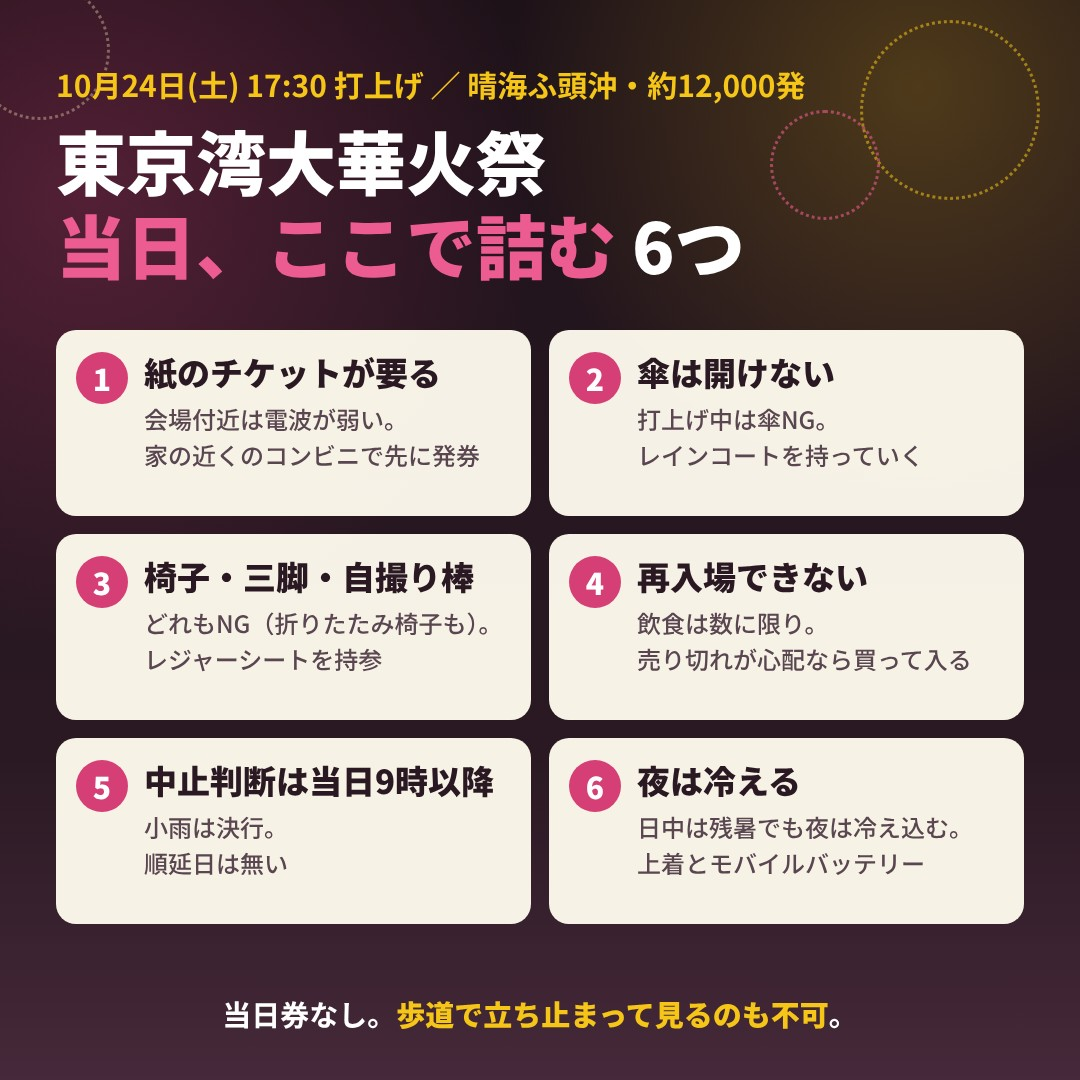
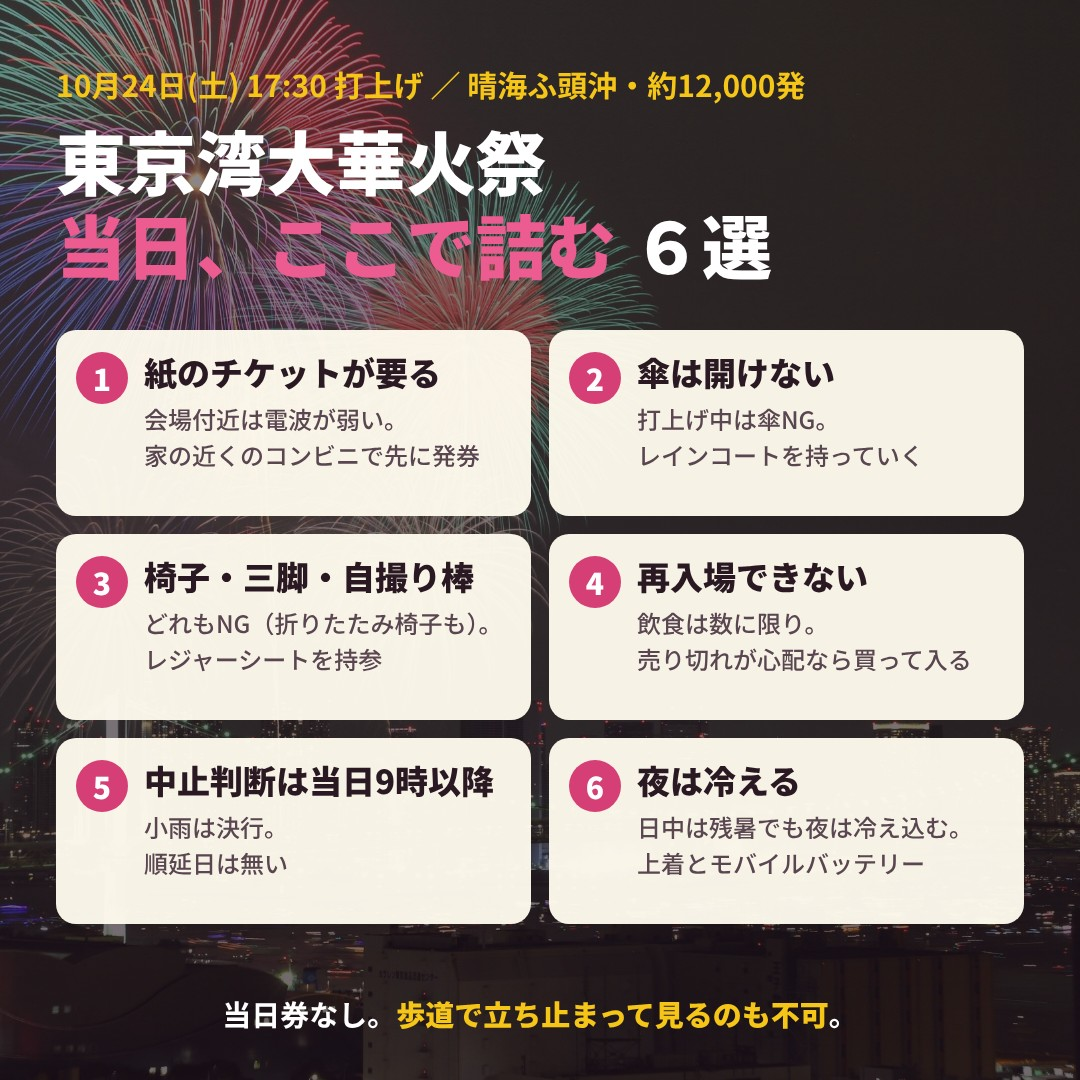
X: 花火の引用ポスト画像にコメント6件を反映（花火写真の背景・６選・飲み物/チケット/YouTubeの絵）
Claude-Session: https://claude.ai/code/session_01H2JQqdMCeKNiMVUTrAyX2t

diff --git a/.claude/skills/x-post-images/SKILL.md b/.claude/skills/x-post-images/SKILL.md
@@ -334,6 +334,7 @@ cat public/images/<slug>/photos/_manifest.json
 | 2026-10-17 | **このタブのところに薄くプライム感謝祭のキャンペーン画像を透過させて写して／楽天のお買い物マラソンも同じようにやってね／実施してスキル化してね** | **イベント同士を比べるカードは、ロゴの札（タブ）の地に、そのイベントの公式キャンペーン画像を薄く敷く**（既定にする）。取り方：公式ページの `og:image`・大きい `img`・CSS の背景画像を **URL から取る**（x312・x313。**画面は撮らない**）。Amazon は aboutamazon の告知画像、楽天は「お買い物マラソン」の看板画像（`r.r10s.jp/evt/.../kanban/`）。**敷くのはカード全体の上部**（いったん札の中だけに入れたが、利用者が「最初のコンポーネント全体に透過させた方が確かにいい」と決めた・2026-10-17）。カードの上 300px に `opacity:.3` 前後、下へ向けて `mask-image` で消す。白地の画像（楽天の看板）は `mix-blend-mode:multiply` で白を消して赤い地に透かす。置き場は `public/images/<slug>/x/src/` と `_manifest.json`（取得元 URL・取得日） |
 | 2026-10-17 | **透かしている画像の白い背景が目立ちすぎる。文字とイラスト以外を透明にするか、もっと薄く**（楽天の看板） | 白地の素材をそのまま敷くと、色のカードの上に**白い帯**が出る。**ファイルは加工せず、CSS の `mix-blend-mode: multiply` で白だけを消す**（白×地色＝地色）。文字とイラストだけが地色に沈んで残る。白地の公式素材を色の地に敷くときは既定でこれを付ける |
 | 2026-10-18 | **フォロワー500人のお礼（A 版）に 6 件：全体を GIF に・紙吹雪を動かす・セリフと「500人突破」にエフェクト／「突破」の札は斜めにしない／500人の文字を大きく・少し下へ／枠の左の黄色い線は不要／セリフなのに吹き出しになっていない（しっぽは継ぎ目を見せない）** | 節目の画像は**最初から動く版（GIF）で出す**（`scripts/gen-x-gif.mjs`・4 秒・12fps で 3.7MB）。紙吹雪は CSS で上から舞わせ、主役の数字は脈打たせて光を流す。**飾りで要素を傾けない**（読みにくくなるだけ）。**枠の片側だけの色線は付けない**。**キャラの言葉は必ず吹き出しにする**。しっぽは本体と**同じ色の 1 本の SVG パス**で描き、影は外側に 1 つだけ（三角を重ねると継ぎ目が出る）。元: `ops/data/x-cards/follower-500/card-anim.html` |
+| 2026-10-22 | **背景は実際の花火の画像を透過させて花火感を出して／お酒・ソフトドリンク・チケット・YouTube の画像を透過して表示して／「6つ」じゃなくて「６選」に**（花火の引用ポスト・6件） | 自作の図だけだと「何の話か」が絵で伝わらない。**1 枚目は記事の CC BY-SA の写真を背景に敷き、撮影者名は ALT に書いた**（panels.json の `alt`）。飲み物・チケットは Noto Color Emoji（OFL）を大きく薄く、YouTube は公式アイコン（改変なし）。**html パネルの CSS の `url()` は書き換えられず読めない**（一時 HTML が `x/` に置かれる）。写真は `<img src>` で置く。写真の上端に暗い帯が出たので上を 80px 切った |
 <!-- 追記はこの表の下に。日付・指摘・反映 の 3 列を必ず埋める -->
 
 ## 7. 関連
